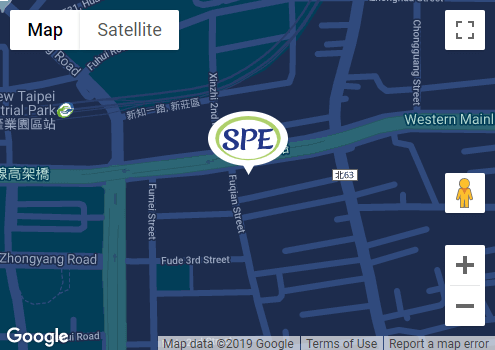
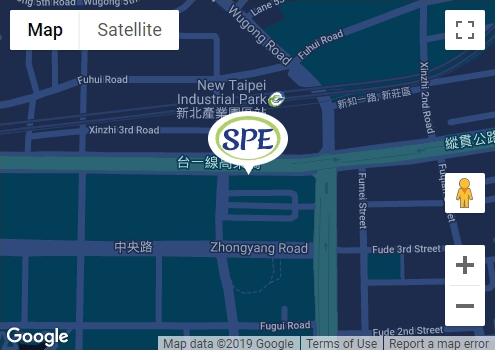
修改公司地址與傳真號碼 #20191210

diff --git a/contacts.html b/contacts.html
@@ -87,9 +87,9 @@ height="0" width="0" style="display:none;visibility:hidden"></iframe></noscript>
                     <li>天晶光電科技股份有限公司</li>
                     <li>統一編號：50917105</li>
                     <li>電話：(02) 8522-5748</li>
-                    <li>傳真：(02) 8522-5947</li>
+                    <li>傳真：(02) 8522-5747</li>
                     <li>Email：<a class="mailtoui" href="mailto:luke@spvenergy.com">luke@spvenergy.com</a></li>
-                    <li>地址：24250 新北市新莊區新北大道二段217號6樓</li>
+                    <li>地址：24250 新北市新莊區新北大道三段7號10樓之7</li>
                 </ul>
             </div>
             <div id="mymap"></div><!-- class="wow fadeInRight" data-wow-offset="-1000"-->
@@ -109,8 +109,8 @@ height="0" width="0" style="display:none;visibility:hidden"></iframe></noscript>
                 <li>天晶光電科技股份有限公司</li>
                 <li>統一編號：50917105</li>
                 <li>電話：(02) 8522-5748</li>
-                <li>傳真：(02) 8522-5947</li>
-                <li>地址： 24250 新北市新莊區新北大道二段217號6樓</li>
+                <li>傳真：(02) 8522-5747</li>
+                <li>地址： 24250 新北市新莊區新北大道三段7號10樓之7</li>
             </ul>
             <ul class="footer_nav">
                 <li><a href="about.html">關於天晶</a></li>
@@ -148,7 +148,7 @@ height="0" width="0" style="display:none;visibility:hidden"></iframe></noscript>
 <script>jQuery(document).ready(function(){jQuery("#loading").fadeOut(500)});</script>
 <script src="https://cdn.jsdelivr.net/npm/loadjs@3.6.1/dist/loadjs.umd.min.js"></script>
 <script src="script/pages.js"></script>
-<script src="https://instant.page/1.2.2" type="module" integrity="sha384-2xV8M5griQmzyiY3CDqh1dn4z3llDVqZDqzjzcY+jCBCk/a5fXJmuZ/40JJAPeoU"></script>
+<script src="https://instant.page/3.0.0" type="module" defer integrity="sha384-OeDn4XE77tdHo8pGtE1apMPmAipjoxUQ++eeJa6EtJCfHlvijigWiJpD7VDPWXV1"></script>
 <script src="https://cdn.jsdelivr.net/npm/mailtoui@1.0.2/dist/mailtoui-min.js" data-options='{ "title":"聯絡我們進階選項","buttonText1": "使用 Gmail 聯絡","buttonText2": "使用 Outlook 聯絡","buttonText3": "使用 Yahoo 聯絡","buttonText4": "使用預設郵件服務","buttonTextCopy":"複製"}'></script>
 <script type="application/ld+json">
 { 

diff --git a/en/contacts.html b/en/contacts.html
@@ -87,9 +87,9 @@ height="0" width="0" style="display:none;visibility:hidden"></iframe></noscript>
                     <li>SKY PV ENERGY Co., Ltd.</li>
                     <li>Tax Code Number：50917105</li>
                     <li>Tel：+886 2-8522-5748</li>
-                    <li>Fax：+886 2-8522-5947</li>
+                    <li>Fax：+886 2-8522-5747</li>
                     <li>Email：<a class="mailtoui" href="mailto:luke@spvenergy.com">luke@spvenergy.com</a></li>
-                    <li>Address： 6F., No. 217, Sec. 2, New Taipei Blvd., Xinzhuang Dist., New Taipei City 242, Taiwan</li>
+                    <li>Address： 10F.-7, No. 7, Sec. 3, New Taipei Blvd., Xinzhuang Dist., New Taipei City 242, Taiwan</li>
                 </ul>
             </div>
             <div id="mymap"></div><!-- class="wow fadeInRight" data-wow-offset="-1000"-->
@@ -109,8 +109,8 @@ height="0" width="0" style="display:none;visibility:hidden"></iframe></noscript>
                 <li>SKY PV ENERGY Co., Ltd.</li>
                 <li>Tax Code Number：50917105</li>
                 <li>Tel：+886 2-8522-5748</li>
-                <li>Fax：+886 2-8522-5947</li>
-                <li>Address： 6F., No. 217, Sec. 2, New Taipei Blvd., Xinzhuang Dist., New Taipei City 242, Taiwan</li>
+                <li>Fax：+886 2-8522-5747</li>
+                <li>Address： 10F.-7, No. 7, Sec. 3, New Taipei Blvd., Xinzhuang Dist., New Taipei City 242, Taiwan</li>
             </ul>
             <ul class="footer_nav">
                 <li><a href="about.html">About</a></li>
@@ -149,7 +149,7 @@ height="0" width="0" style="display:none;visibility:hidden"></iframe></noscript>
 <script>jQuery(document).ready(function(){jQuery("#loading").fadeOut(500)});</script>
 <script src="https://cdn.jsdelivr.net/npm/loadjs@3.6.1/dist/loadjs.umd.min.js"></script>
 <script src="../script/EN-pages.js"></script>
-<script src="https://instant.page/1.2.2" type="module" integrity="sha384-2xV8M5griQmzyiY3CDqh1dn4z3llDVqZDqzjzcY+jCBCk/a5fXJmuZ/40JJAPeoU"></script>
+<script src="https://instant.page/3.0.0" type="module" defer integrity="sha384-OeDn4XE77tdHo8pGtE1apMPmAipjoxUQ++eeJa6EtJCfHlvijigWiJpD7VDPWXV1"></script>
 <script type="application/ld+json">
 { 
     "@context" : "https://schema.org",

diff --git a/about.html b/about.html
@@ -96,7 +96,7 @@ height="0" width="0" style="display:none;visibility:hidden"></iframe></noscript>
                 <ul class="company_list">
                     <li>資本額: 新台幣10,000,000</li>
                     <li>員工人數: 15人</li>
-                    <li>新莊辦公室: 新莊區新北大道二段217號6樓</li>
+                    <li>新莊辦公室: 新北市新莊區新北大道三段7號10樓之7</li>
                     <li>新竹辦公室: 竹東鎮長春路3段229巷6號2樓</li>
                 </ul>
             </div>
@@ -120,8 +120,8 @@ height="0" width="0" style="display:none;visibility:hidden"></iframe></noscript>
                 <li>天晶光電科技股份有限公司</li>
                 <li>統一編號：50917105</li>
                 <li>電話：(02) 8522-5748</li>
-                <li>傳真：(02) 8522-5947</li>
-                <li>地址： 24250 新北市新莊區新北大道二段217號6樓</li>
+                <li>傳真：(02) 8522-5747</li>
+                <li>地址： 24250 新北市新莊區新北大道三段7號10樓之7</li>
             </ul>
             <ul class="footer_nav">
                 <li><a href="about.html">關於天晶</a></li>
@@ -159,7 +159,7 @@ height="0" width="0" style="display:none;visibility:hidden"></iframe></noscript>
 <script>jQuery(document).ready(function(){jQuery("#loading").fadeOut(500)});</script>
 <script src="https://cdn.jsdelivr.net/npm/loadjs@3.6.1/dist/loadjs.umd.min.js"></script>
 <script src="script/pages.js"></script>
-<script src="https://instant.page/1.2.2" type="module" integrity="sha384-2xV8M5griQmzyiY3CDqh1dn4z3llDVqZDqzjzcY+jCBCk/a5fXJmuZ/40JJAPeoU"></script>
+<script src="https://instant.page/3.0.0" type="module" defer integrity="sha384-OeDn4XE77tdHo8pGtE1apMPmAipjoxUQ++eeJa6EtJCfHlvijigWiJpD7VDPWXV1"></script>
 <script type="application/ld+json">
 { 
     "@context" : "https://schema.org",

diff --git a/403.html b/403.html
@@ -107,8 +107,8 @@ height="0" width="0" style="display:none;visibility:hidden"></iframe></noscript>
                 <li>天晶光電科技股份有限公司</li>
                 <li>統一編號：50917105</li>
                 <li>電話：(02) 8522-5748</li>
-                <li>傳真：(02) 8522-5947</li>
-                <li>地址： 24250 新北市新莊區新北大道二段217號6樓</li>
+                <li>傳真：(02) 8522-5747</li>
+                <li>地址： 24250 新北市新莊區新北大道三段7號10樓之7</li>
             </ul>
             <ul class="footer_nav">
                 <li><a href="https://www.spvenergy.com/about.html">關於天晶</a></li>
@@ -146,7 +146,7 @@ height="0" width="0" style="display:none;visibility:hidden"></iframe></noscript>
 <script>jQuery(document).ready(function(){jQuery("#loading").fadeOut(500)});</script>
 <script src="https://cdn.jsdelivr.net/npm/loadjs@3.6.1/dist/loadjs.umd.min.js"></script>
 <script src="https://www.spvenergy.com/script/pages.js"></script>
-<script src="https://instant.page/1.2.2" type="module" integrity="sha384-2xV8M5griQmzyiY3CDqh1dn4z3llDVqZDqzjzcY+jCBCk/a5fXJmuZ/40JJAPeoU"></script>
+<script src="https://instant.page/3.0.0" type="module" defer integrity="sha384-OeDn4XE77tdHo8pGtE1apMPmAipjoxUQ++eeJa6EtJCfHlvijigWiJpD7VDPWXV1"></script>
 <script type="application/ld+json">
 { 
     "@context" : "https://schema.org",

diff --git a/404.html b/404.html
@@ -108,8 +108,8 @@ height="0" width="0" style="display:none;visibility:hidden"></iframe></noscript>
                 <li>天晶光電科技股份有限公司</li>
                 <li>統一編號：50917105</li>
                 <li>電話：(02) 8522-5748</li>
-                <li>傳真：(02) 8522-5947</li>
-                <li>地址： 24250 新北市新莊區新北大道二段217號6樓</li>
+                <li>傳真：(02) 8522-5747</li>
+                <li>地址： 24250 新北市新莊區新北大道三段7號10樓之7</li>
             </ul>
             <ul class="footer_nav">
                 <li><a href="https://www.spvenergy.com/about.html">關於天晶</a></li>
@@ -147,7 +147,7 @@ height="0" width="0" style="display:none;visibility:hidden"></iframe></noscript>
 <script>jQuery(document).ready(function(){jQuery("#loading").fadeOut(500)});</script>
 <script src="https://cdn.jsdelivr.net/npm/loadjs@3.6.1/dist/loadjs.umd.min.js"></script>
 <script src="https://www.spvenergy.com/script/pages.js"></script>
-<script src="https://instant.page/1.2.2" type="module" integrity="sha384-2xV8M5griQmzyiY3CDqh1dn4z3llDVqZDqzjzcY+jCBCk/a5fXJmuZ/40JJAPeoU"></script>
+<script src="https://instant.page/3.0.0" type="module" defer integrity="sha384-OeDn4XE77tdHo8pGtE1apMPmAipjoxUQ++eeJa6EtJCfHlvijigWiJpD7VDPWXV1"></script>
 <script type="application/ld+json">
 { 
     "@context" : "https://schema.org",

diff --git a/en/about.html b/en/about.html
@@ -112,8 +112,8 @@ height="0" width="0" style="display:none;visibility:hidden"></iframe></noscript>
                 <li>SKY PV ENERGY Co., Ltd.</li>
                 <li>Tax Code Number：50917105</li>
                 <li>Tel：+886 2-8522-5748</li>
-                <li>Fax：+886 2-8522-5947</li>
-                <li>Address： 6F., No. 217, Sec. 2, New Taipei Blvd., Xinzhuang Dist., New Taipei City 242, Taiwan</li>
+                <li>Fax：+886 2-8522-5747</li>
+                <li>Address： 10F.-7, No. 7, Sec. 3, New Taipei Blvd., Xinzhuang Dist., New Taipei City 242, Taiwan</li>
             </ul>
             <ul class="footer_nav">
                 <li><a href="about.html">About</a></li>
@@ -151,7 +151,7 @@ height="0" width="0" style="display:none;visibility:hidden"></iframe></noscript>
 <script>jQuery(document).ready(function(){jQuery("#loading").fadeOut(500)});</script>
 <script src="https://cdn.jsdelivr.net/npm/loadjs@3.6.1/dist/loadjs.umd.min.js"></script>
 <script src="../script/EN-pages.js"></script>
-<script src="https://instant.page/1.2.2" type="module" integrity="sha384-2xV8M5griQmzyiY3CDqh1dn4z3llDVqZDqzjzcY+jCBCk/a5fXJmuZ/40JJAPeoU"></script>
+<script src="https://instant.page/3.0.0" type="module" defer integrity="sha384-OeDn4XE77tdHo8pGtE1apMPmAipjoxUQ++eeJa6EtJCfHlvijigWiJpD7VDPWXV1"></script>
 <script type="application/ld+json">
 { 
     "@context" : "https://schema.org",

diff --git a/en/index.html b/en/index.html
@@ -127,8 +127,8 @@ height="0" width="0" style="display:none;visibility:hidden"></iframe></noscript>
                 <li>SKY PV ENERGY Co., Ltd.</li>
                 <li>Tax Code Number：50917105</li>
                 <li>Tel：+886 2-8522-5748</li>
-                <li>Fax：+886 2-8522-5947</li>
-                <li>Address： 6F., No. 217, Sec. 2, New Taipei Blvd., Xinzhuang Dist., New Taipei City 242, Taiwan</li>
+                <li>Fax：+886 2-8522-5747</li>
+                <li>Address： 10F.-7, No. 7, Sec. 3, New Taipei Blvd., Xinzhuang Dist., New Taipei City 242, Taiwan</li>
             </ul>
             <ul class="footer_nav">
                 <li><a href="about.html">About</a></li>
@@ -165,7 +165,7 @@ height="0" width="0" style="display:none;visibility:hidden"></iframe></noscript>
 <script>jQuery(document).ready(function(){jQuery("#loading").fadeOut(500)});</script>
 <script src="https://cdn.jsdelivr.net/npm/loadjs@3.6.1/dist/loadjs.umd.min.js"></script>
 <script src="../script/EN-index.js"></script>
-<script src="https://instant.page/1.2.2" type="module" integrity="sha384-2xV8M5griQmzyiY3CDqh1dn4z3llDVqZDqzjzcY+jCBCk/a5fXJmuZ/40JJAPeoU"></script>
+<script src="https://instant.page/3.0.0" type="module" defer integrity="sha384-OeDn4XE77tdHo8pGtE1apMPmAipjoxUQ++eeJa6EtJCfHlvijigWiJpD7VDPWXV1"></script>
 <script type="application/ld+json">
 { 
     "@context" : "https://schema.org",

diff --git a/en/our-service.html b/en/our-service.html
@@ -110,8 +110,8 @@ height="0" width="0" style="display:none;visibility:hidden"></iframe></noscript>
                 <li>SKY PV ENERGY Co., Ltd.</li>
                 <li>Tax Code Number：50917105</li>
                 <li>Tel：+886 2-8522-5748</li>
-                <li>Fax：+886 2-8522-5947</li>
-                <li>Address： 6F., No. 217, Sec. 2, New Taipei Blvd., Xinzhuang Dist., New Taipei City 242, Taiwan</li>
+                <li>Fax：+886 2-8522-5747</li>
+                <li>Address： 10F.-7, No. 7, Sec. 3, New Taipei Blvd., Xinzhuang Dist., New Taipei City 242, Taiwan</li>
             </ul>
             <ul class="footer_nav">
                 <li><a href="about.html">About</a></li>
@@ -149,7 +149,7 @@ height="0" width="0" style="display:none;visibility:hidden"></iframe></noscript>
 <script>jQuery(document).ready(function(){jQuery("#loading").fadeOut(500)});</script>
 <script src="https://cdn.jsdelivr.net/npm/loadjs@3.6.1/dist/loadjs.umd.min.js"></script>
 <script src="../script/EN-pages.js"></script>
-<script src="https://instant.page/1.2.2" type="module" integrity="sha384-2xV8M5griQmzyiY3CDqh1dn4z3llDVqZDqzjzcY+jCBCk/a5fXJmuZ/40JJAPeoU"></script>
+<script src="https://instant.page/3.0.0" type="module" defer integrity="sha384-OeDn4XE77tdHo8pGtE1apMPmAipjoxUQ++eeJa6EtJCfHlvijigWiJpD7VDPWXV1"></script>
 <script type="application/ld+json">
 { 
     "@context" : "https://schema.org",

diff --git a/en/products.html b/en/products.html
@@ -150,8 +150,8 @@ height="0" width="0" style="display:none;visibility:hidden"></iframe></noscript>
                 <li>SKY PV ENERGY Co., Ltd.</li>
                 <li>Tax Code Number：50917105</li>
                 <li>Tel：+886 2-8522-5748</li>
-                <li>Fax：+886 2-8522-5947</li>
-                <li>Address： 6F., No. 217, Sec. 2, New Taipei Blvd., Xinzhuang Dist., New Taipei City 242, Taiwan</li>
+                <li>Fax：+886 2-8522-5747</li>
+                <li>Address： 10F.-7, No. 7, Sec. 3, New Taipei Blvd., Xinzhuang Dist., New Taipei City 242, Taiwan</li>
             </ul>
             <ul class="footer_nav">
                 <li><a href="about.html">About</a></li>
@@ -189,7 +189,7 @@ height="0" width="0" style="display:none;visibility:hidden"></iframe></noscript>
 <script>jQuery(document).ready(function(){jQuery("#loading").fadeOut(500)});</script>
 <script src="https://cdn.jsdelivr.net/npm/loadjs@3.6.1/dist/loadjs.umd.min.js"></script>
 <script src="../script/EN-pages.js"></script>
-<script src="https://instant.page/1.2.2" type="module" integrity="sha384-2xV8M5griQmzyiY3CDqh1dn4z3llDVqZDqzjzcY+jCBCk/a5fXJmuZ/40JJAPeoU"></script>
+<script src="https://instant.page/3.0.0" type="module" defer integrity="sha384-OeDn4XE77tdHo8pGtE1apMPmAipjoxUQ++eeJa6EtJCfHlvijigWiJpD7VDPWXV1"></script>
 <script type="application/ld+json">
 { 
     "@context" : "https://schema.org",

diff --git a/en/projects.html b/en/projects.html
@@ -258,8 +258,8 @@ height="0" width="0" style="display:none;visibility:hidden"></iframe></noscript>
                 <li>SKY PV ENERGY Co., Ltd.</li>
                 <li>Tax Code Number：50917105</li>
                 <li>Tel：+886 2-8522-5748</li>
-                <li>Fax：+886 2-8522-5947</li>
-                <li>Address： 6F., No. 217, Sec. 2, New Taipei Blvd., Xinzhuang Dist., New Taipei City 242, Taiwan</li>
+                <li>Fax：+886 2-8522-5747</li>
+                <li>Address： 10F.-7, No. 7, Sec. 3, New Taipei Blvd., Xinzhuang Dist., New Taipei City 242, Taiwan</li>
             </ul>
             <ul class="footer_nav">
                 <li><a href="about.html">About</a></li>
@@ -297,7 +297,7 @@ height="0" width="0" style="display:none;visibility:hidden"></iframe></noscript>
 <script>jQuery(document).ready(function(){jQuery("#loading").fadeOut(500)});</script>
 <script src="https://cdn.jsdelivr.net/npm/loadjs@3.6.1/dist/loadjs.umd.min.js"></script>
 <script src="../script/EN-pages.js"></script>
-<script src="https://instant.page/1.2.2" type="module" integrity="sha384-2xV8M5griQmzyiY3CDqh1dn4z3llDVqZDqzjzcY+jCBCk/a5fXJmuZ/40JJAPeoU"></script>
+<script src="https://instant.page/3.0.0" type="module" defer integrity="sha384-OeDn4XE77tdHo8pGtE1apMPmAipjoxUQ++eeJa6EtJCfHlvijigWiJpD7VDPWXV1"></script>
 <script type="application/ld+json">
 { 
     "@context" : "https://schema.org",

diff --git a/en/pv-advantage.html b/en/pv-advantage.html
@@ -124,8 +124,8 @@ height="0" width="0" style="display:none;visibility:hidden"></iframe></noscript>
                 <li>SKY PV ENERGY Co., Ltd.</li>
                 <li>Tax Code Number：50917105</li>
                 <li>Tel：+886 2-8522-5748</li>
-                <li>Fax：+886 2-8522-5947</li>
-                <li>Address： 6F., No. 217, Sec. 2, New Taipei Blvd., Xinzhuang Dist., New Taipei City 242, Taiwan</li>
+                <li>Fax：+886 2-8522-5747</li>
+                <li>Address： 10F.-7, No. 7, Sec. 3, New Taipei Blvd., Xinzhuang Dist., New Taipei City 242, Taiwan</li>
             </ul>
             <ul class="footer_nav">
                 <li><a href="about.html">About</a></li>
@@ -163,7 +163,7 @@ height="0" width="0" style="display:none;visibility:hidden"></iframe></noscript>
 <script>jQuery(document).ready(function(){jQuery("#loading").fadeOut(500)});</script>
 <script src="https://cdn.jsdelivr.net/npm/loadjs@3.6.1/dist/loadjs.umd.min.js"></script>
 <script src="../script/EN-pages.js"></script>
-<script src="https://instant.page/1.2.2" type="module" integrity="sha384-2xV8M5griQmzyiY3CDqh1dn4z3llDVqZDqzjzcY+jCBCk/a5fXJmuZ/40JJAPeoU"></script>
+<script src="https://instant.page/3.0.0" type="module" defer integrity="sha384-OeDn4XE77tdHo8pGtE1apMPmAipjoxUQ++eeJa6EtJCfHlvijigWiJpD7VDPWXV1"></script>
 <script type="application/ld+json">
 { 
     "@context" : "https://schema.org",

diff --git a/en/pv-system.html b/en/pv-system.html
@@ -174,8 +174,8 @@ height="0" width="0" style="display:none;visibility:hidden"></iframe></noscript>
                 <li>SKY PV ENERGY Co., Ltd.</li>
                 <li>Tax Code Number：50917105</li>
                 <li>Tel：+886 2-8522-5748</li>
-                <li>Fax：+886 2-8522-5947</li>
-                <li>Address： 6F., No. 217, Sec. 2, New Taipei Blvd., Xinzhuang Dist., New Taipei City 242, Taiwan</li>
+                <li>Fax：+886 2-8522-5747</li>
+                <li>Address： 10F.-7, No. 7, Sec. 3, New Taipei Blvd., Xinzhuang Dist., New Taipei City 242, Taiwan</li>
             </ul>
             <ul class="footer_nav">
                 <li><a href="about.html">About</a></li>
@@ -213,7 +213,7 @@ height="0" width="0" style="display:none;visibility:hidden"></iframe></noscript>
 <script>jQuery(document).ready(function(){jQuery("#loading").fadeOut(500)});</script>
 <script src="https://cdn.jsdelivr.net/npm/loadjs@3.6.1/dist/loadjs.umd.min.js"></script>
 <script src="../script/EN-pages.js"></script>
-<script src="https://instant.page/1.2.2" type="module" integrity="sha384-2xV8M5griQmzyiY3CDqh1dn4z3llDVqZDqzjzcY+jCBCk/a5fXJmuZ/40JJAPeoU"></script>
+<script src="https://instant.page/3.0.0" type="module" defer integrity="sha384-OeDn4XE77tdHo8pGtE1apMPmAipjoxUQ++eeJa6EtJCfHlvijigWiJpD7VDPWXV1"></script>
 <script type="application/ld+json">
 { 
     "@context" : "https://schema.org",
